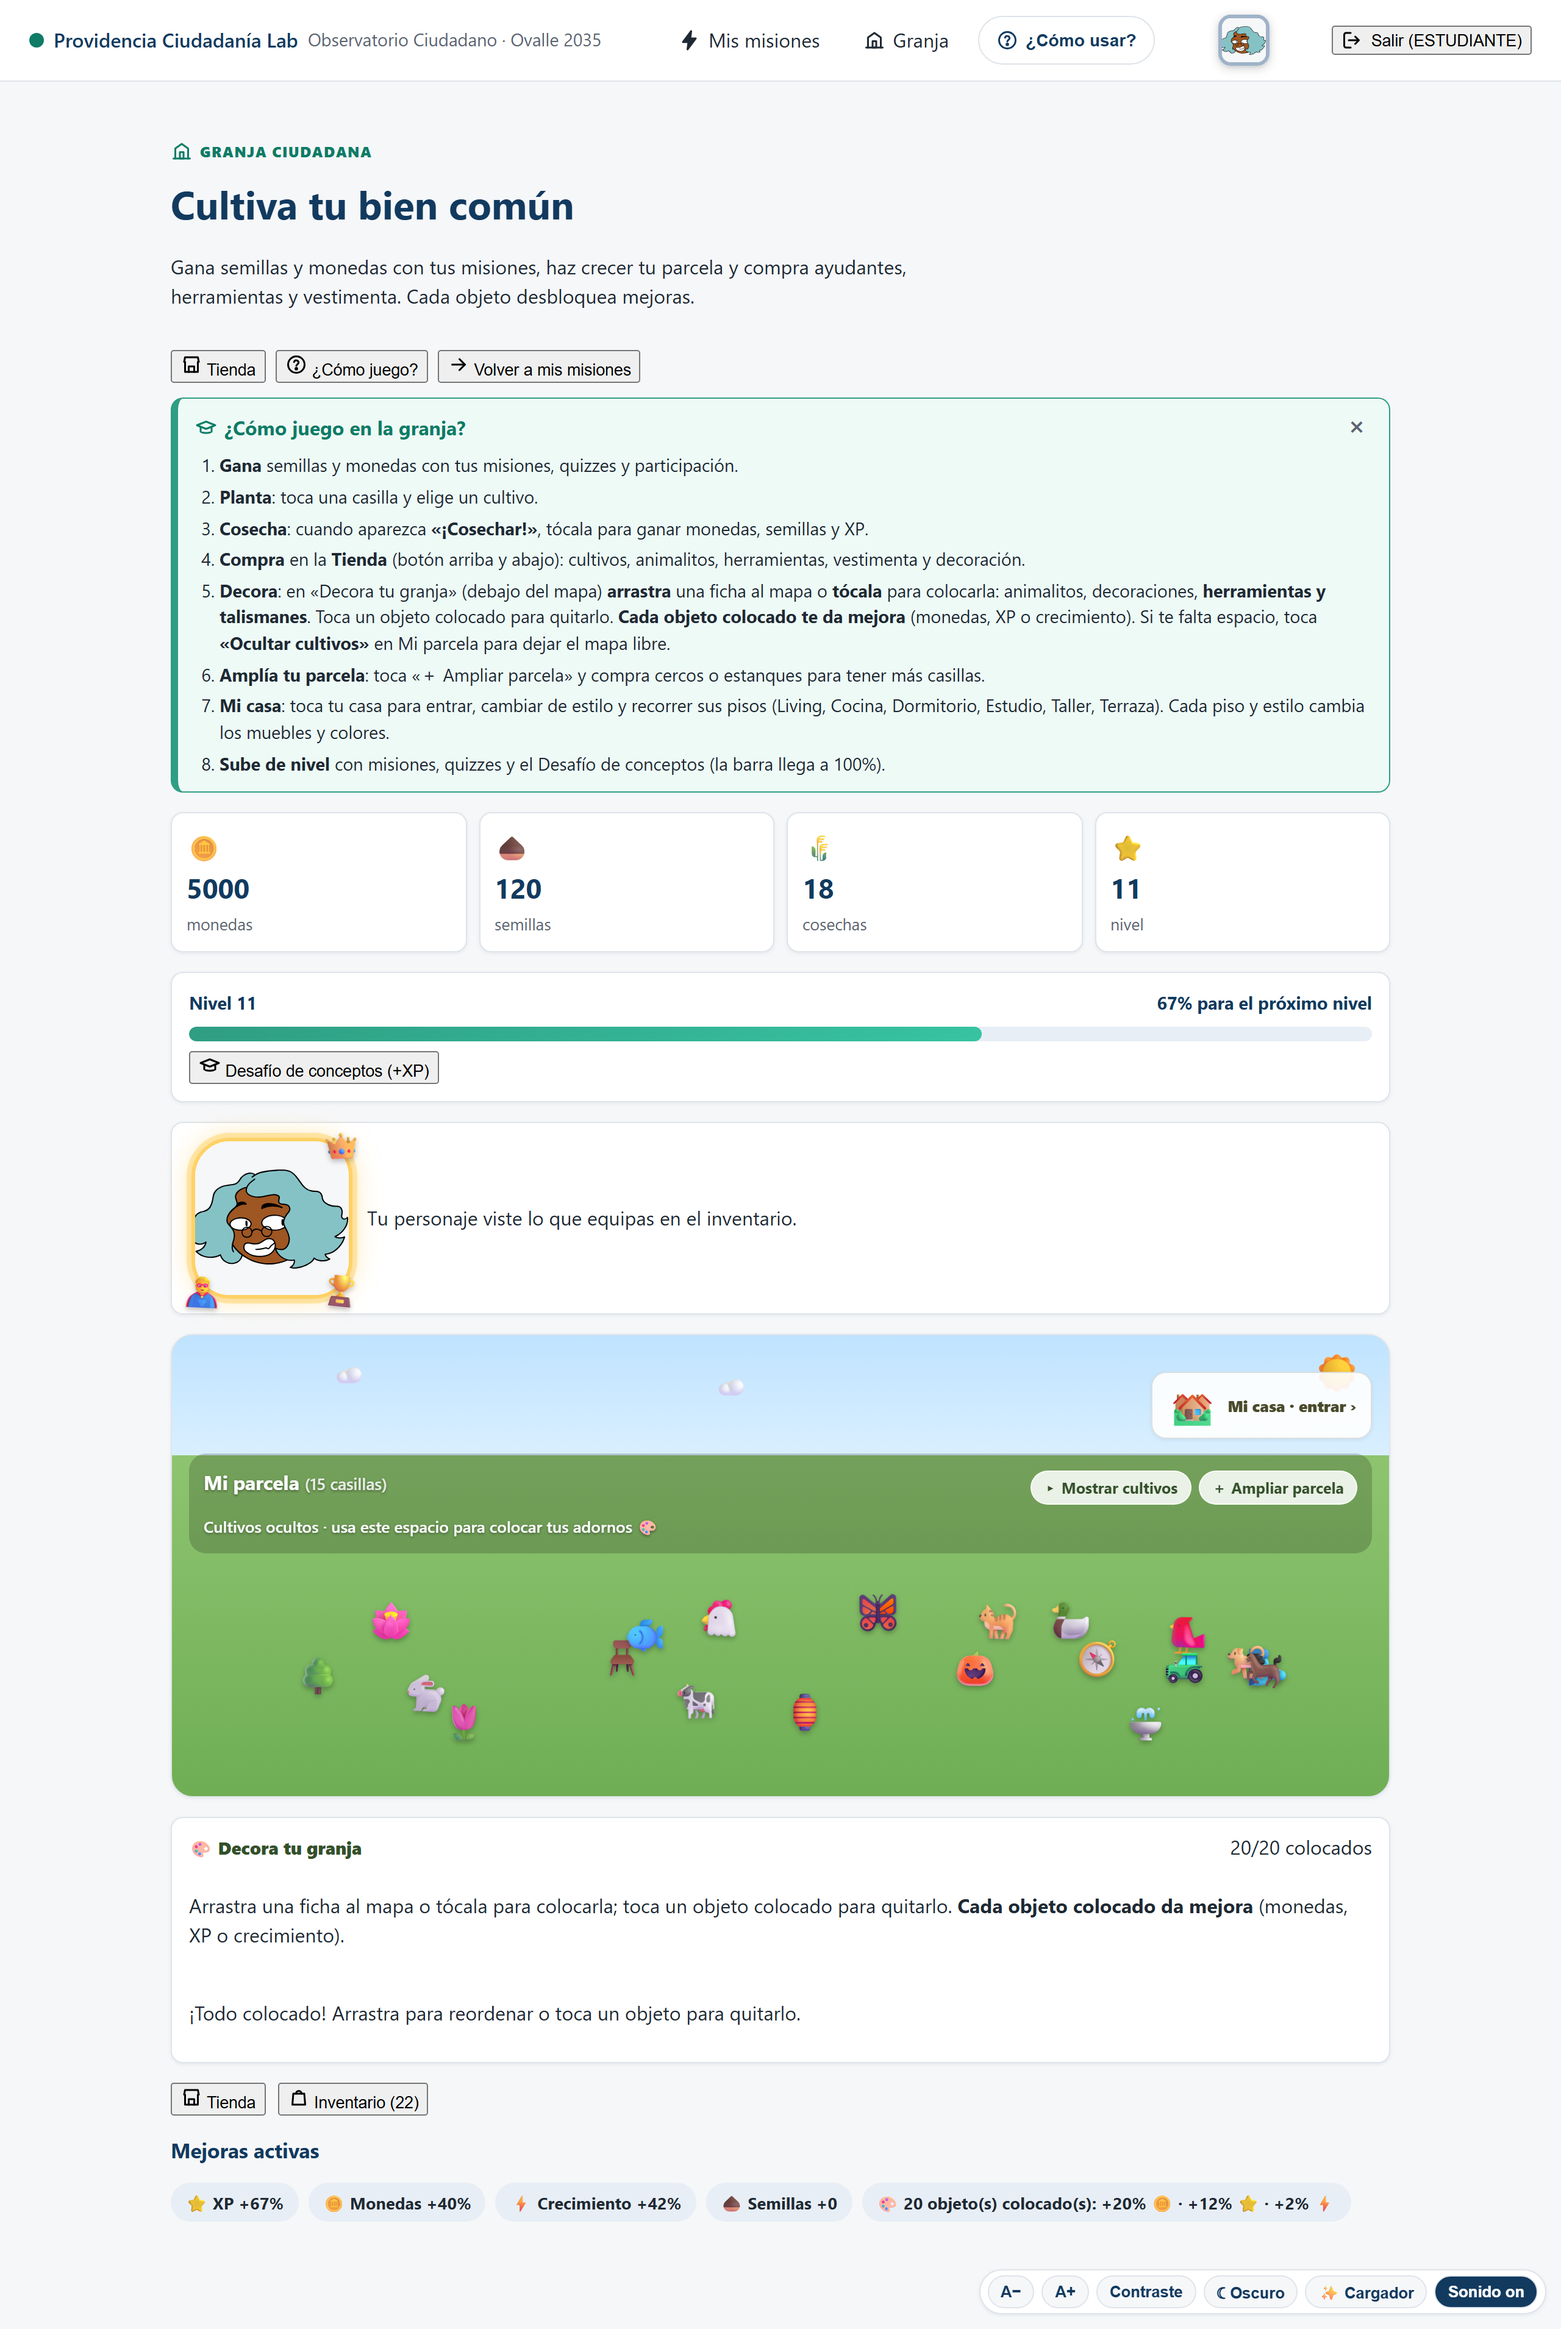
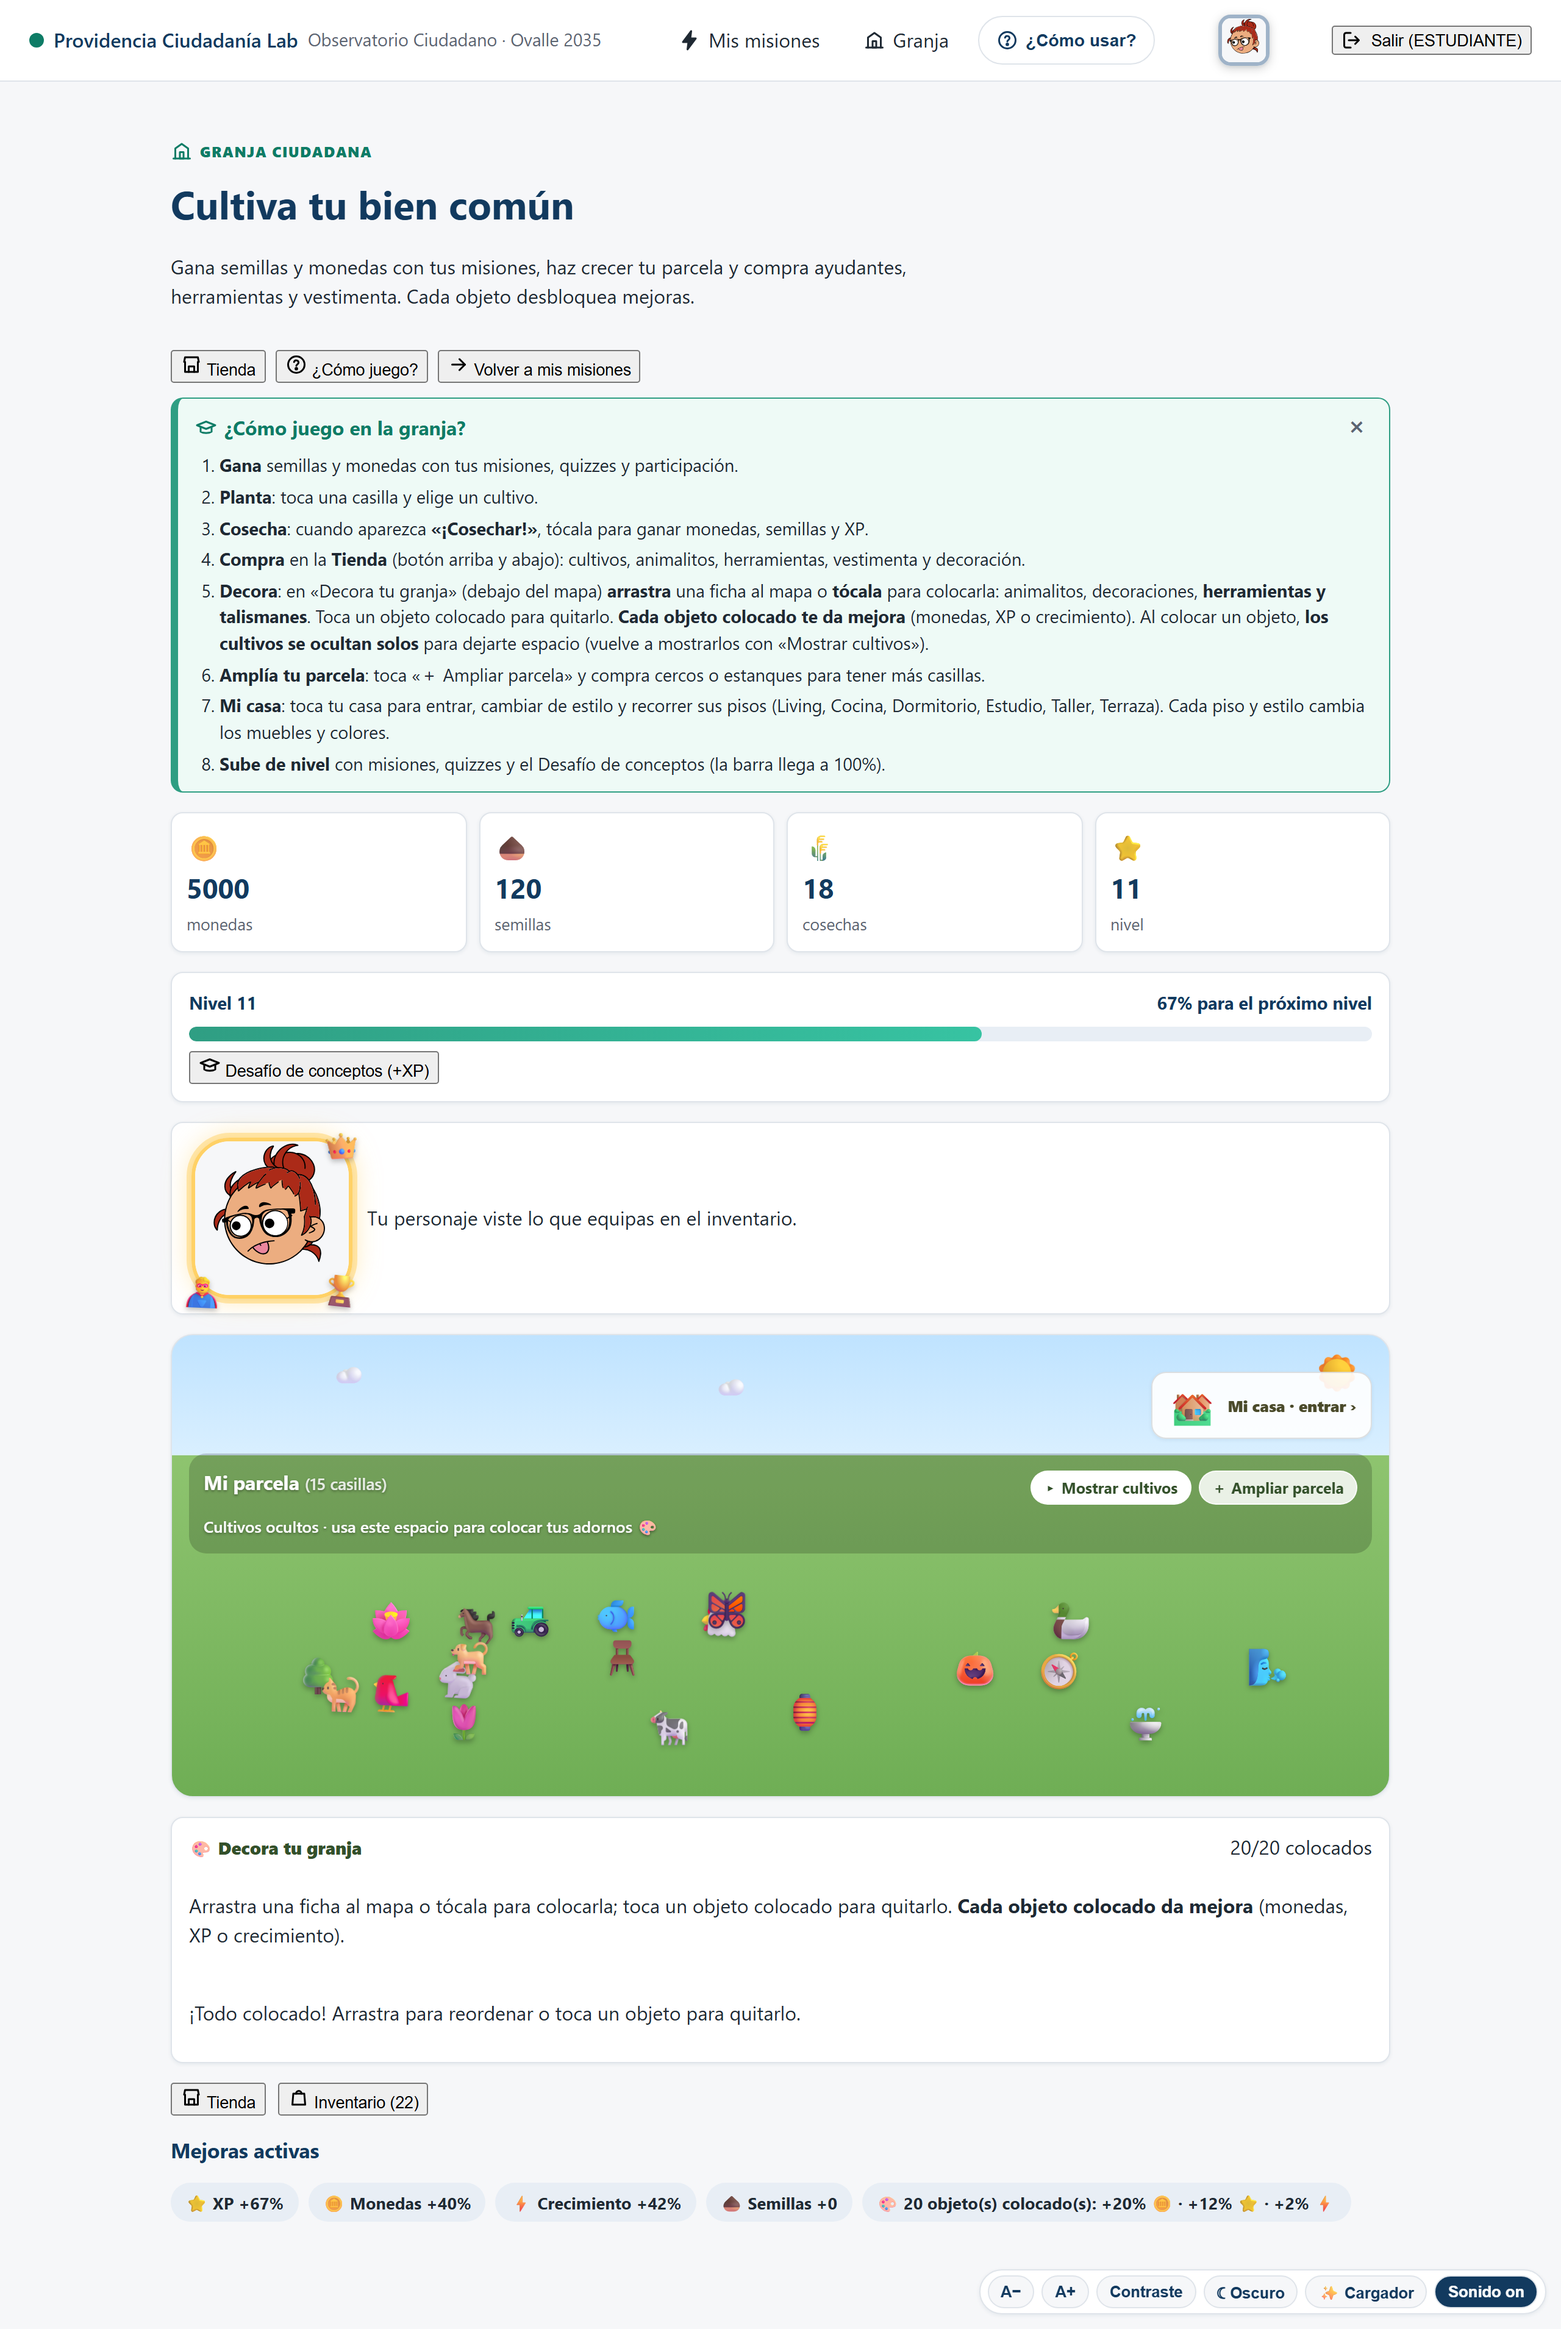
feat: ocultar cultivos automaticamente al colocar un adorno (0.20.0)
- collapseField en onTrayDown; instruccion actualizada
- E2E 2/2; hosting desplegado; capturas actualizadas

diff --git a/apps/web/src/features/farm/FarmView.vue b/apps/web/src/features/farm/FarmView.vue
@@ -140,6 +140,7 @@ function pct(client: number, start: number, size: number): number {
 }
 function onTrayDown(item: FarmItem, e: PointerEvent): void {
   e.preventDefault();
+  collapseField();
   drag.value = { item, fromPlaced: false, x: e.clientX, y: e.clientY, moved: false };
   window.addEventListener("pointermove", onPointerMove);
   window.addEventListener("pointerup", onPointerUp);
@@ -249,6 +250,16 @@ function toggleField(): void {
   fieldOpen.value = !fieldOpen.value;
   try {
     localStorage.setItem(FIELD_KEY, fieldOpen.value ? "1" : "0");
+  } catch {
+    // sin almacenamiento
+  }
+}
+/** Al empezar a colocar un objeto, oculta los cultivos para dejar el mapa libre. */
+function collapseField(): void {
+  if (!fieldOpen.value) return;
+  fieldOpen.value = false;
+  try {
+    localStorage.setItem(FIELD_KEY, "0");
   } catch {
     // sin almacenamiento
   }
@@ -407,7 +418,7 @@ function itemsByCategory(category: FarmItem["category"]): FarmItem[] {
         <li><b>Planta</b>: toca una casilla y elige un cultivo.</li>
         <li><b>Cosecha</b>: cuando aparezca <b>«¡Cosechar!»</b>, tócala para ganar monedas, semillas y XP.</li>
         <li><b>Compra</b> en la <b>Tienda</b> (botón arriba y abajo): cultivos, animalitos, herramientas, vestimenta y decoración.</li>
-        <li><b>Decora</b>: en «Decora tu granja» (debajo del mapa) <b>arrastra</b> una ficha al mapa o <b>tócala</b> para colocarla: animalitos, decoraciones, <b>herramientas y talismanes</b>. Toca un objeto colocado para quitarlo. <b>Cada objeto colocado te da mejora</b> (monedas, XP o crecimiento). Si te falta espacio, toca <b>«Ocultar cultivos»</b> en Mi parcela para dejar el mapa libre.</li>
+        <li><b>Decora</b>: en «Decora tu granja» (debajo del mapa) <b>arrastra</b> una ficha al mapa o <b>tócala</b> para colocarla: animalitos, decoraciones, <b>herramientas y talismanes</b>. Toca un objeto colocado para quitarlo. <b>Cada objeto colocado te da mejora</b> (monedas, XP o crecimiento). Al colocar un objeto, <b>los cultivos se ocultan solos</b> para dejarte espacio (vuelve a mostrarlos con «Mostrar cultivos»).</li>
         <li><b>Amplía tu parcela</b>: toca «＋ Ampliar parcela» y compra cercos o estanques para tener más casillas.</li>
         <li><b>Mi casa</b>: toca tu casa para entrar, cambiar de estilo y recorrer sus pisos (Living, Cocina, Dormitorio, Estudio, Taller, Terraza). Cada piso y estilo cambia los muebles y colores.</li>
         <li><b>Sube de nivel</b> con misiones, quizzes y el Desafío de conceptos (la barra llega a 100%).</li>

diff --git a/docs/CHANGELOG.md b/docs/CHANGELOG.md
@@ -11,7 +11,7 @@ Formato: [SemVer](https://semver.org/) + categorías `Added / Changed / Fixed / 
 - **Todo se decora**: además de animalitos y decoraciones, ahora **herramientas y talismanes también se colocan** en el mapa; cada objeto aporta bonus **según su categoría** — decoración +2% 🪙, animalitos/ayudantes +1% 🪙 y +1% ⭐, herramientas +2% ⚡ y talismanes +2% ⭐ (tope +20% por tipo), visible en "Mejoras activas". Server-authoritative (`saveFarmLayout`).
 - **Casa por dentro**: **6 salas temáticas** (Living, Cocina, Dormitorio, Estudio, **Taller**, Terraza) desbloqueadas por nivel, cada una con **muebles propios**, y los **colores del piso cambian según la casa** elegida.
 - **Más formas de casa**: **10 estilos** (🏕🛖🏠🏡🏘🏰🏚🏯🏛🏭) elegibles y **entrar a la casa**.
-- **Usabilidad del mapa**: la escena ocupa todo el ancho y la bandeja **"Decora tu granja" va debajo** (ya no tapa el mapa); botón **"Ocultar/Mostrar cultivos"** que **colapsa la parcela** para dejar el mapa libre y colocar adornos; botón **"＋ Ampliar parcela"**; panel de instrucciones "¿Cómo juego en la granja?" y botón **Tienda** arriba.
+- **Usabilidad del mapa**: la escena ocupa todo el ancho y la bandeja **"Decora tu granja" va debajo** (ya no tapa el mapa); botón **"Ocultar/Mostrar cultivos"** que **colapsa la parcela** para dejar el mapa libre y colocar adornos (**se oculta solo al empezar a colocar un objeto**); botón **"＋ Ampliar parcela"**; panel de instrucciones "¿Cómo juego en la granja?" y botón **Tienda** arriba.
 - **Capturas**: granja (`docs/assets/granja-ciudadana.png`), mapa libre para adornos (`docs/assets/granja-adornos.png`) e interior (`docs/assets/granja-casa.png`); script `scripts/screenshot-farm.mjs`.
 - **Anuncio en la app**: banner descartable en el inicio del estudiante que enlaza a la Granja (se oculta al cerrarlo, persistido en `pclab-farm-announce`).
 - **Granja Ciudadana** (server-authoritative): parcela con casillas desbloqueables por nivel, cultivos que crecen en tiempo real, cosecha de monedas/semillas/XP, tienda e inventario con **49 objetos** y perks pasivos (`xp_bonus`, `coin_bonus`, `growth_speed`, `seed_bonus`, `unlock_plot`, `concept_hint`) en 7 categorías (cultivos, NPCs, herramientas, talismanes, vestimenta, accesorios, decoración). **Cosecha Dorada** como condición de victoria. Ver `docs/GRANJA_CIUDADANA.md`.

diff --git a/docs/GRANJA_CIUDADANA.md b/docs/GRANJA_CIUDADANA.md
@@ -166,8 +166,8 @@ Archivos: `apps/web/src/composables/useFarm.ts`, `features/farm/FarmView.vue`,
 - [x] **Instrucciones**: panel "¿Cómo juego en la granja?" en la granja (incluye "Ampliar
       parcela" y cómo colocar objetos), botón **Tienda** arriba y pasos de la Granja en
       **"¿Cómo usar?"**.
-- [x] **Colapsar la parcela**: botón **"Ocultar/Mostrar cultivos"** para ocultar la grilla de
-      siembra y dejar el mapa libre para colocar adornos (estado persistido).
+- [x] **Colapsar la parcela**: botón **"Ocultar/Mostrar cultivos"** (estado persistido) y
+      **ocultado automático al empezar a colocar un objeto** para dejar el mapa libre a los adornos.
 - [x] Capturas: `docs/assets/granja-ciudadana.png`, `docs/assets/granja-adornos.png` (mapa
       libre) y `docs/assets/granja-casa.png`.
 
